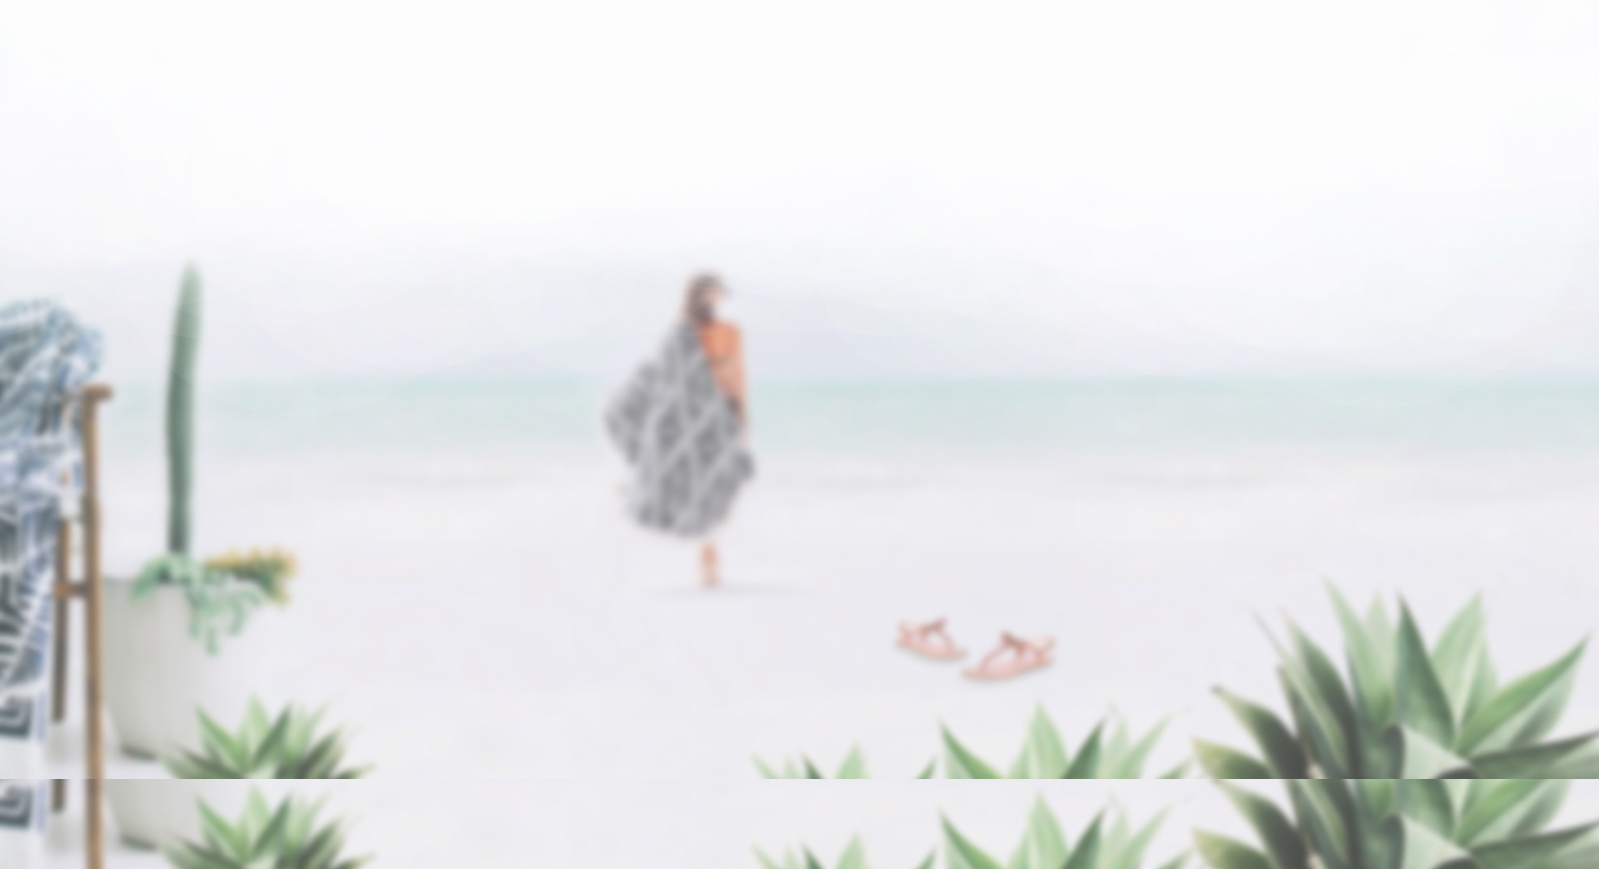
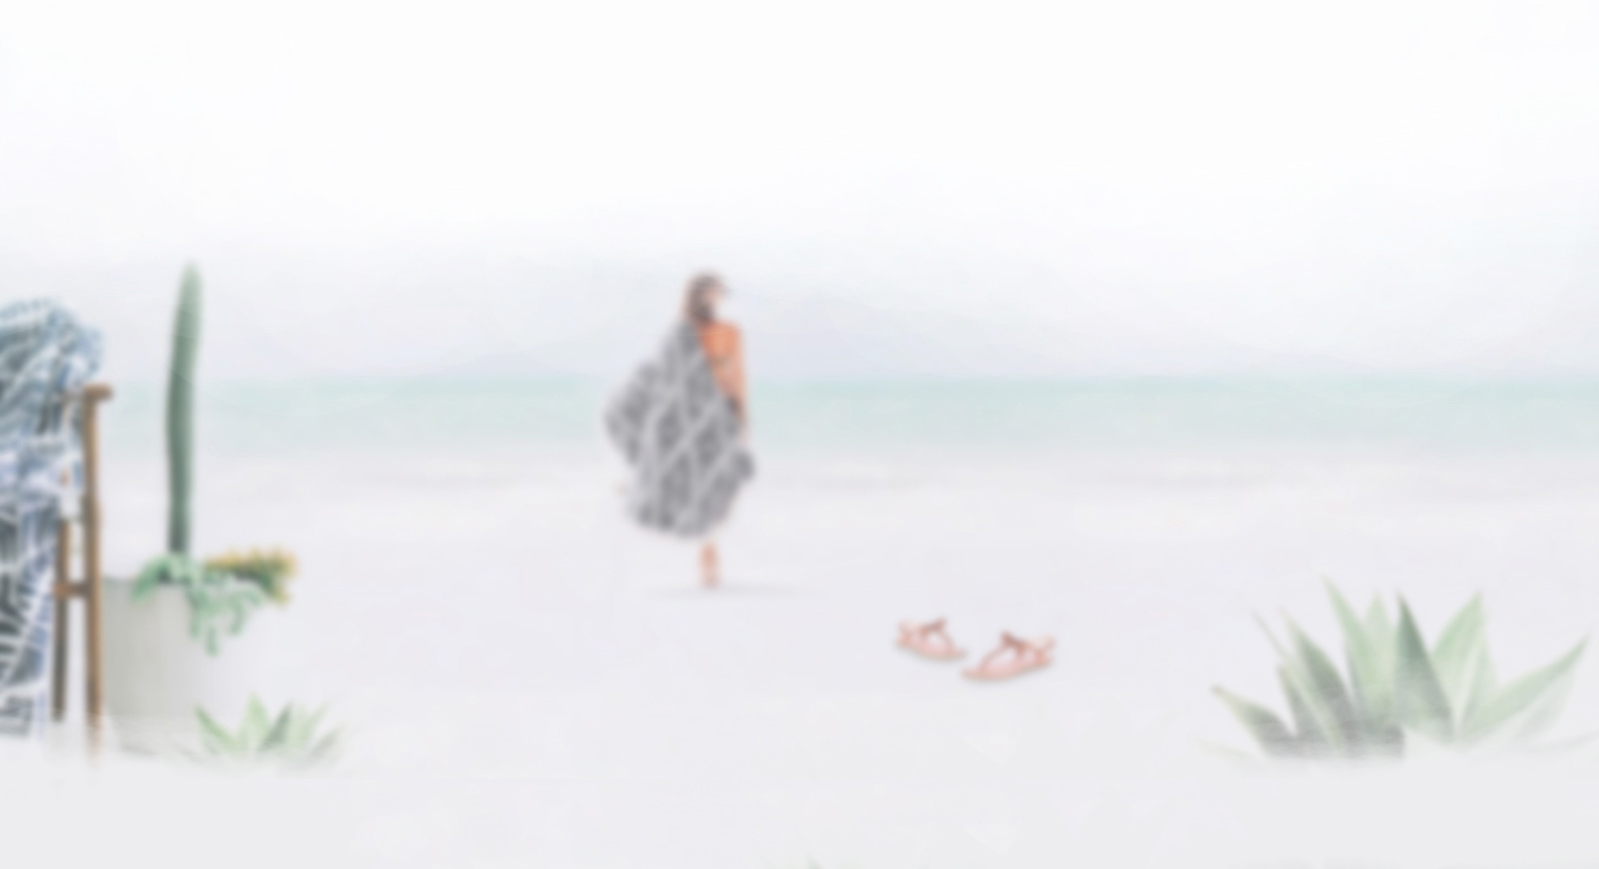
UI fixes

Changed region(s): [[0.4597, 0.7146, 1.0, 1.0], [0.0, 0.8078, 0.2452, 1.0]]

diff --git a/app/assets/stylesheets/custom.css b/app/assets/stylesheets/custom.css
@@ -7071,9 +7071,11 @@ ul, ol {
 }
 
 .parallax_footer{
-  background-image: url("/assets/footer-img.jpg");
-      background-attachment: fixed;
-      padding: 5%;
+background-image: url("/assets/footer-img.jpg");
+    
+    padding: 5%;
+    /* background-repeat: round; */
+    background-size: cover;
 }
 
 .product_image_size {
@@ -7111,10 +7113,21 @@ ul, ol {
 .button-grnt { margin-left: 145px !important;}
 .col-xs-6 {width: 100% !important;}
 .border-left { border-left: solid 0px #ccc !important;}
+#homepage-2-carousel .slide-2 h1 {
+		font-size:26px;
+		margin:59px 0 0 ; 
+	}
+
+.flex-nav-next{ display: none; }
+.flex-nav-prev{ display: none; }
+
 
 }
 
 @media screen and (min-width: 320px) and (max-width: 479px) {
+	.flex-nav-next{ display: none; }
+.flex-nav-prev{ display: none; }
+
    .label-danger { margin-top: -5px !important;}
 
 	.navbar-default {position: relative !important;}
@@ -7123,17 +7136,45 @@ ul, ol {
 .flexslider .carousel{ width: 80% !important; margin: auto !important; }
 .flex-control-nav{ display: none !important;}
 .inputnews { width: 100% !important;}
-.button-grnt { margin-left: 145px !important;}
+.button-grnt { margin-left: 72% !important;}
 .col-xs-6 {width: 100% !important;}
 .border-left { border-left: solid 0px #ccc !important;}
 .style-may-you{height: auto; width:49% !important;   margin-bottom: 13px !important;  margin: auto;}
+#homepage-2-carousel .slide-2 h1 {
+		font-size:26px;
+		margin:59px 0 0;
+	}
+
+
+.flexslider {
+   width: 90% !important ; margin: auto;}
+
 }
 
 @media screen and (min-width: 480px) and (max-width: 639px) {
+	.flex-nav-next{ display: none; }
+.flex-nav-prev{ display: none; }
+
+	#homepage-2-carousel .slide-2 h1 {
+		font-size:26px;
+		margin:0px 0 0;
+	}
 	.navbar-default {position: relative !important;}
 	.navbar { margin-bottom: 0px !important;}
   .label-danger { margin-top: -5px !important;}
   .style-may-you{height: auto; width:49% !important;   margin-bottom: 13px !important;  margin: auto;}
+.flex-next { display: none; }
+
+
+.jumbotron .owl-carousel .item {
+  
+    width: 100%;
+    background-size: cover;
+    background-repeat: round;
+}
+
+.flexslider {
+   width: 90% !important ; margin: auto;}
 
 }
 
@@ -7156,6 +7197,15 @@ ul, ol {
   height:100%;
  }
  .style-may-you{height: auto; width:49% !important;   margin-bottom: 13px !important;  margin: auto;}
+ .jumbotron .owl-carousel .item {
+  
+    width: 100%;
+    background-size: cover;
+    background-repeat: round;
+}
+
+.flexslider {
+   width: 90% !important ; margin: auto;}
 }
 
 @media screen and (min-width: 768px) and (max-width: 1003px) {
@@ -7168,7 +7218,12 @@ ul, ol {
 .vertical-menu .jumbotron .owl-carousel .item {
   height:100%!important;
  }
- 
+ .jumbotron .owl-carousel .item {
+  
+    width: 100%;
+    background-size: cover;
+    background-repeat: round;
+}
  .jumbotron-full-height {
   height:auto;
  }
@@ -7176,25 +7231,48 @@ ul, ol {
  .vertical-menu .jumbotron-full-height {
   height:100%;
  }
+
+
+.flexslider {
+   width: 90% !important ; margin: auto;}
 }
 
 @media screen and (min-width: 1004px) and (max-width: 1259px) {
 
+.flexslider {
+   width: 80% !important ; margin: auto;}
+}
+
+
 }
 
 @media screen and (min-width: 1260px) and (max-width: 1279px) {
+	
+.flexslider {
+       width: 1065px; margin: auto;}
 }
 
 @media screen and (min-width: 1280px) and (max-width: 1365px) {
+
+.flexslider {
+    width: 1065px;  margin: auto;}
 }
 
 @media screen and (min-width: 1366px) and (max-width: 1599px) {
+
+.flexslider {
+   width: 1065px; margin: auto;}
 }
 
 @media screen and (min-width: 1600px) and (max-width: 1679px) {
+
+.flexslider {
+    width: 1065px; margin: auto;}
 }
 
 @media screen and (min-width: 1680px) {
+	.flexslider {
+    width: 1065px; margin: auto;}
 }
 
 
@@ -7225,8 +7303,6 @@ ul, ol {
     margin: 0px 5px;
 }
 
-.flexslider {
-   width: 90% !important; margin: auto;}
    .phoneicones{ float: left; margin-left:5%; } 
 
    .phoneicones ul li{ float: left;  width: 50px;}
@@ -7257,6 +7333,7 @@ ul, ol {
 @media (min-width: 992px){
 .container {width: 100%;}
 }
+}
 
 .image-size2{ height: 160px;
        line-height: 300px;
@@ -7266,3 +7343,15 @@ ul, ol {
        vertical-align: middle;
        text-align: center;
        margin: auto;}
+
+/*.....................*/
+       .quent {
+    width: 50px !important;
+    border: 2px solid #A5A3A3 !important;
+    height: 39px;
+    text-align: center;
+    float: left !important;
+}
+
+.btn-count2 {float: left !important;}
+.product-pop{width: 140px;float: left;}
